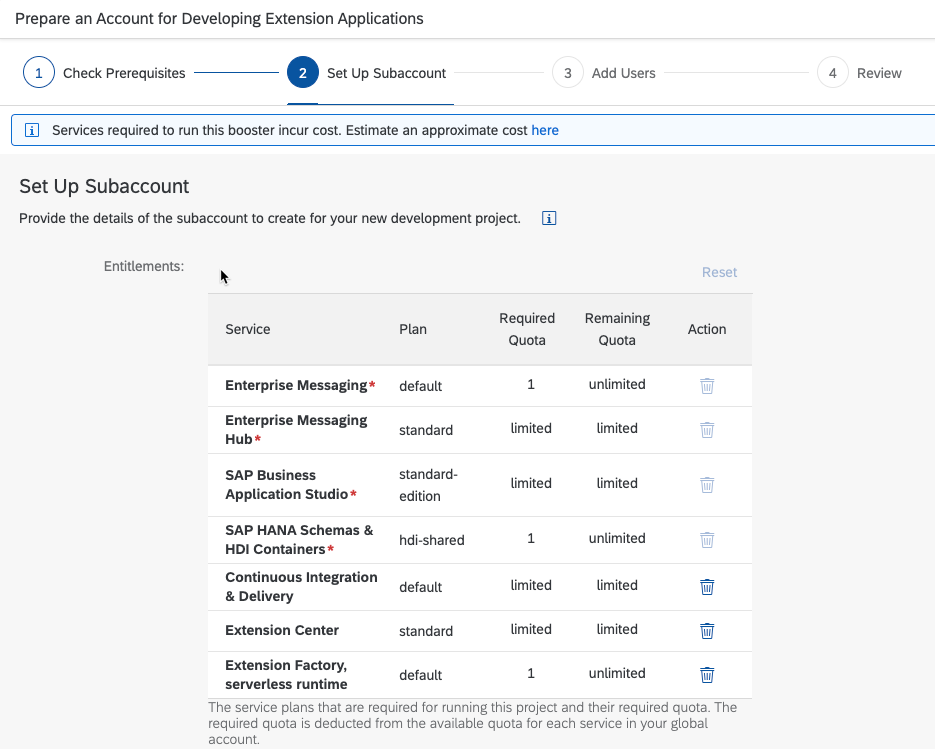
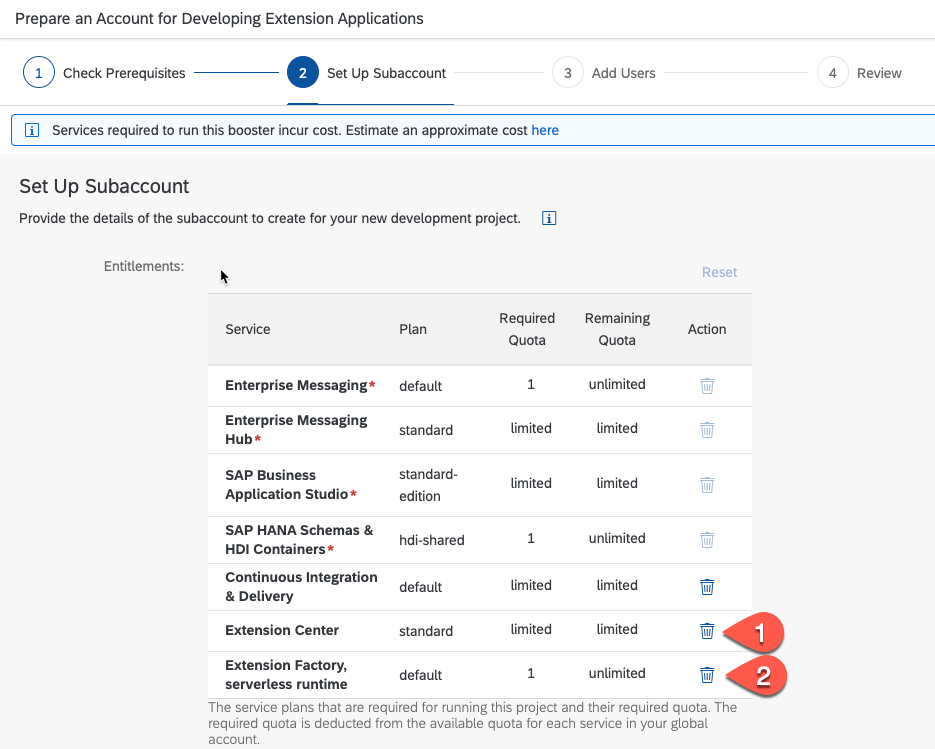
fixed scp setup

Changed region(s): [[0.7754, 0.7984, 0.8684, 0.9519]]

diff --git a/mission/scp-setup/README.md b/mission/scp-setup/README.md
@@ -53,12 +53,12 @@ Before running the booster please check for which regions and infrastructures th
 
    ![Booster](./images/booster-03.png)
 
-5. Check Prerequisites. If Ok press Next - otherwise check 
+5. Check Prerequisites. If Ok press Next - otherwise check the error message.
    ![Booster](./images/booster-04.png)
 
 6. Setup Subaccount
    
-   You find the list of the Services that will acctivated by the Booster. For this mission the Countinuous Integration & Delivery service is optional, if you don't want to use it you can remove it.
+   You find the list of the Services that will acctivated by the Booster. For this mission the Countinuous Integration & Delivery service is optional, if you don't want to use it you can remove it. The Extension Center and Extension Factory service are not needed for the mission - click on the basket to remove them.
    
    ![Booster](./images/booster-05.png)
 
